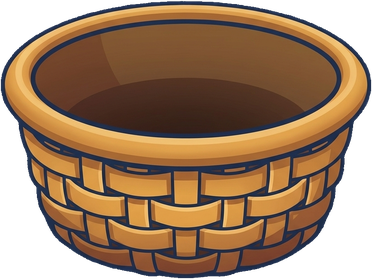
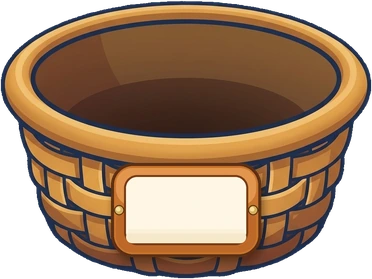
removed red glow from tokri game and added matra on the tokri

Changed region(s): [[0.2957, 0.5735, 0.7392, 0.9462]]

diff --git a/3_BUILD/HI02H11_L02_S04.html b/3_BUILD/HI02H11_L02_S04.html
@@ -5336,6 +5336,35 @@ body.mt-page{ background:#7FC2FE; }
     z-index: 205;
   }
 
+/* ==========================================================================================
+   [S04 2026-10-22] «मात्रा टोकरी» - two asks from the developer, this game only.
+   ========================================================================================== */
+/* 1. THE ROUND'S MATRA ON THE BASKET'S PLAQUE. [2026-10-22, 5th ask] the developer's reference picture: a
+      wooden name-plaque on the basket's front with the matra on it. The plaque is in the ART now (both
+      layers, 1_SPEC/make_tokri_plaque.py: wooden frame, cream panel, two brass rivets, centred at 75.3 % of
+      the basket's height); the game writes only the matra on it, in the lesson's orange, so it changes with
+      the round («◌ो», then «◌ौ»). It lives in the front layer, so it moves and wiggles with the basket.
+      --mt-ink-dy centres the INK on the panel, not the line box: the hook of ो / ौ rises above the letters. */
+.mt-game .basket-front .bf-art { position: relative; }
+.mt-game .basket-matra {
+  --mt-ink-dy: 4px;          /* measured: ink centred on the cream panel (both matras) */
+  position: absolute; left: 50%; top: 75.3%;
+  transform: translate(-50%, -50%);
+  font-family: var(--pal-font-hi); font-weight: 800; font-size: 34px; line-height: 1;
+  color: #E8590C; white-space: nowrap; pointer-events: none;
+}
+.mt-game .basket-matra > span { display: block; transform: translateY(var(--mt-ink-dy)); }
+.mt-game .basket-matra:empty { display: none; }
+/* 2. NO RED ON A WRONG CATCH: "just keep the wiggle and the sfx". The basket keeps its idle white
+      outline and only wiggles (olNo); the word's cloud keeps its own colour and only shakes (wgNo);
+      the wrong sound is untouched. The green of a right catch is unchanged. */
+.mt-game #basket-art.is-wrong { --ol-c: var(--ol-idle, #FFFFFF); }
+.mt-game .drop-tile.wg-wrong .dt-cloud { filter: hue-rotate(var(--cloud-hue, 0deg)) saturate(1.2); }
+/* 3. [2026-10-22, 4th ask] "make the tokri a little bigger so that the matra box would be in the tokri": the
+      basket (both layers) is 25 % bigger, 258 x 194, same bottom; the catch line moves with the rim (10 px
+      below CATCH_Y 489, as before) - see BASKET_W / CATCH_Y in tokri_module.js. */
+.mt-game .basket, .mt-game .basket-front { width: 258px; height: 194px; }
+.mt-game .catch-line { bottom: 155px; }
 
 
 /* [S04] MTG2A04_L02_S01's confetti layer (style.css [13]): it covers the whole window and its pieces
@@ -20377,7 +20406,9 @@ SlideModules.MATRA_TOKRI = {
             '<div class="ol ol-alpha" id="basket-art"><img src="assets/UI/mt_basket.webp" alt="" aria-hidden="true"></div>' +
           '</span></div>' +
           '<div class="basket-front" id="basket-front" aria-hidden="true"><span class="basket-lift" id="basket-front-lift">' +
-            '<div class="bf-art" id="basket-front-art"><img src="assets/UI/mt_basket_front.webp" alt=""></div>' +
+            '<div class="bf-art" id="basket-front-art"><img src="assets/UI/mt_basket_front.webp" alt="">' +
+              /* [S04 2026-10-22] the round's matra on the basket - see the round start below */
+              '<span class="basket-matra" id="basket-matra" aria-hidden="true"></span></div>' +
           '</span></div>' +
           '<div id="mtNudgeHand">' +
             '<span class="nh-tapfx"><i class="fx-ro"></i><i class="fx-ri"></i><i class="fx-sp"></i></span>' +
@@ -20486,15 +20517,20 @@ SlideModules.MATRA_TOKRI = {
       var GRAVITY        = 8;       // gentle acceleration
       var TARGET_RATIO   = 0.55;    // probability a spawn is a target-matra word
 
-      var BASKET_W          = 206;
+      /* [S04 2026-10-22] the developer: "make the tokri a little bigger so that the matra box is IN the tokri".
+         The basket is 25 % bigger - 206 x 155 -> 258 x 194, the art's own 1.333 aspect, still standing on the
+         grass at the same bottom (628) - and every number derived from its size moves with it: the catch
+         width (half the rim, which is the art's full width), CATCH_Y (top 434 + 28.5 % of 194 = 489), the
+         catch depth, and the nudge hand's dx (the right flank is 13 px further out). */
+      var BASKET_W          = 258;
       /* Both measured off the painted basket by assets/_finish_art.py, not guessed:
          its widest opaque row spans 99.6% of the art's width (the old inline SVG's
          rim was rx 90 of a 200-wide viewBox, i.e. 90%) and sits 19.1% down the frame
          (the SVG's was 24.7%). A wider, higher rim than the drawing it replaced — so
          both numbers move, or the catch box drifts off what the child can see. */
-      var BASKET_CATCH_HALF = 103;  // the rim IS the art's full width, so BASKET_W / 2
-      var CATCH_Y           = 517;  // play-area px: basket top 473 + 28.5% of 155
-      var CATCH_DEPTH       = 52;   // how far past the rim a word still counts as caught
+      var BASKET_CATCH_HALF = 129;  // the rim IS the art's full width, so BASKET_W / 2
+      var CATCH_Y           = 489;  // play-area px: basket top 434 + 28.5% of 194 ([S04] was 473 + 28.5% of 155)
+      var CATCH_DEPTH       = 65;   // how far past the rim a word still counts as caught
       var PER_ROUND         = 5;
 
       /* vo-good-1/2/3 are no longer played: the between-rounds praise is now the
@@ -20524,7 +20560,7 @@ SlideModules.MATRA_TOKRI = {
          to 659 against the play area's 654 cut and shaved the wrist - measured, 6px clipped.
          The box bottom is the binding constraint here, not the tip, so the box keeps its
          tuned position and the finger simply points 5px higher up the same flank. */
-      var NUDGE_OPTS = { hand: 'mtNudgeHand', host: '.mt-game .play-area', dx: 26.8, dy: -82 };
+      var NUDGE_OPTS = { hand: 'mtNudgeHand', host: '.mt-game .play-area', dx: 39.8, dy: -82 };
 
       // ---- State ----
       var playArea = null, basketEl = null, basketLift = null, basketArt = null;
@@ -20918,6 +20954,12 @@ SlideModules.MATRA_TOKRI = {
         clearDrops();
 
         var R = ROUNDS[i];
+        /* [S04 2026-10-22] the developer: "put the relevant matra's symbol on the tokri - when the child is
+           looking for ओ की मात्रा words, the basket carries the ओ matra". The label sits on the basket's front
+           (so it rides and wiggles with it) and changes with the round: ◌ो, then ◌ौ - drawn on its dotted
+           circle, as page 1 and the G5 cards show the mark. */
+        var bm = document.getElementById('basket-matra');
+        if (bm) bm.innerHTML = R.matra ? "<span>" + R.matra + "</span>" : "";
         /* [r25 · SME] The round banner is gone. It flashed the bare matra in a white disc,
            and a bare matra is an orphan combining mark, so the font drew it as ◌ा - a
            dotted placeholder the child was being asked to read. The VO still names the

diff --git a/4_ENGINE/lesson_template.html b/4_ENGINE/lesson_template.html
@@ -5336,6 +5336,35 @@ body.mt-page{ background:#7FC2FE; }
     z-index: 205;
   }
 
+/* ==========================================================================================
+   [S04 2026-10-22] «मात्रा टोकरी» - two asks from the developer, this game only.
+   ========================================================================================== */
+/* 1. THE ROUND'S MATRA ON THE BASKET'S PLAQUE. [2026-10-22, 5th ask] the developer's reference picture: a
+      wooden name-plaque on the basket's front with the matra on it. The plaque is in the ART now (both
+      layers, 1_SPEC/make_tokri_plaque.py: wooden frame, cream panel, two brass rivets, centred at 75.3 % of
+      the basket's height); the game writes only the matra on it, in the lesson's orange, so it changes with
+      the round («◌ो», then «◌ौ»). It lives in the front layer, so it moves and wiggles with the basket.
+      --mt-ink-dy centres the INK on the panel, not the line box: the hook of ो / ौ rises above the letters. */
+.mt-game .basket-front .bf-art { position: relative; }
+.mt-game .basket-matra {
+  --mt-ink-dy: 4px;          /* measured: ink centred on the cream panel (both matras) */
+  position: absolute; left: 50%; top: 75.3%;
+  transform: translate(-50%, -50%);
+  font-family: var(--pal-font-hi); font-weight: 800; font-size: 34px; line-height: 1;
+  color: #E8590C; white-space: nowrap; pointer-events: none;
+}
+.mt-game .basket-matra > span { display: block; transform: translateY(var(--mt-ink-dy)); }
+.mt-game .basket-matra:empty { display: none; }
+/* 2. NO RED ON A WRONG CATCH: "just keep the wiggle and the sfx". The basket keeps its idle white
+      outline and only wiggles (olNo); the word's cloud keeps its own colour and only shakes (wgNo);
+      the wrong sound is untouched. The green of a right catch is unchanged. */
+.mt-game #basket-art.is-wrong { --ol-c: var(--ol-idle, #FFFFFF); }
+.mt-game .drop-tile.wg-wrong .dt-cloud { filter: hue-rotate(var(--cloud-hue, 0deg)) saturate(1.2); }
+/* 3. [2026-10-22, 4th ask] "make the tokri a little bigger so that the matra box would be in the tokri": the
+      basket (both layers) is 25 % bigger, 258 x 194, same bottom; the catch line moves with the rim (10 px
+      below CATCH_Y 489, as before) - see BASKET_W / CATCH_Y in tokri_module.js. */
+.mt-game .basket, .mt-game .basket-front { width: 258px; height: 194px; }
+.mt-game .catch-line { bottom: 155px; }
 
 
 /* [S04] MTG2A04_L02_S01's confetti layer (style.css [13]): it covers the whole window and its pieces
@@ -18896,7 +18925,9 @@ SlideModules.MATRA_TOKRI = {
             '<div class="ol ol-alpha" id="basket-art"><img src="assets/UI/mt_basket.webp" alt="" aria-hidden="true"></div>' +
           '</span></div>' +
           '<div class="basket-front" id="basket-front" aria-hidden="true"><span class="basket-lift" id="basket-front-lift">' +
-            '<div class="bf-art" id="basket-front-art"><img src="assets/UI/mt_basket_front.webp" alt=""></div>' +
+            '<div class="bf-art" id="basket-front-art"><img src="assets/UI/mt_basket_front.webp" alt="">' +
+              /* [S04 2026-10-22] the round's matra on the basket - see the round start below */
+              '<span class="basket-matra" id="basket-matra" aria-hidden="true"></span></div>' +
           '</span></div>' +
           '<div id="mtNudgeHand">' +
             '<span class="nh-tapfx"><i class="fx-ro"></i><i class="fx-ri"></i><i class="fx-sp"></i></span>' +
@@ -19005,15 +19036,20 @@ SlideModules.MATRA_TOKRI = {
       var GRAVITY        = 8;       // gentle acceleration
       var TARGET_RATIO   = 0.55;    // probability a spawn is a target-matra word
 
-      var BASKET_W          = 206;
+      /* [S04 2026-10-22] the developer: "make the tokri a little bigger so that the matra box is IN the tokri".
+         The basket is 25 % bigger - 206 x 155 -> 258 x 194, the art's own 1.333 aspect, still standing on the
+         grass at the same bottom (628) - and every number derived from its size moves with it: the catch
+         width (half the rim, which is the art's full width), CATCH_Y (top 434 + 28.5 % of 194 = 489), the
+         catch depth, and the nudge hand's dx (the right flank is 13 px further out). */
+      var BASKET_W          = 258;
       /* Both measured off the painted basket by assets/_finish_art.py, not guessed:
          its widest opaque row spans 99.6% of the art's width (the old inline SVG's
          rim was rx 90 of a 200-wide viewBox, i.e. 90%) and sits 19.1% down the frame
          (the SVG's was 24.7%). A wider, higher rim than the drawing it replaced — so
          both numbers move, or the catch box drifts off what the child can see. */
-      var BASKET_CATCH_HALF = 103;  // the rim IS the art's full width, so BASKET_W / 2
-      var CATCH_Y           = 517;  // play-area px: basket top 473 + 28.5% of 155
-      var CATCH_DEPTH       = 52;   // how far past the rim a word still counts as caught
+      var BASKET_CATCH_HALF = 129;  // the rim IS the art's full width, so BASKET_W / 2
+      var CATCH_Y           = 489;  // play-area px: basket top 434 + 28.5% of 194 ([S04] was 473 + 28.5% of 155)
+      var CATCH_DEPTH       = 65;   // how far past the rim a word still counts as caught
       var PER_ROUND         = 5;
 
       /* vo-good-1/2/3 are no longer played: the between-rounds praise is now the
@@ -19043,7 +19079,7 @@ SlideModules.MATRA_TOKRI = {
          to 659 against the play area's 654 cut and shaved the wrist - measured, 6px clipped.
          The box bottom is the binding constraint here, not the tip, so the box keeps its
          tuned position and the finger simply points 5px higher up the same flank. */
-      var NUDGE_OPTS = { hand: 'mtNudgeHand', host: '.mt-game .play-area', dx: 26.8, dy: -82 };
+      var NUDGE_OPTS = { hand: 'mtNudgeHand', host: '.mt-game .play-area', dx: 39.8, dy: -82 };
 
       // ---- State ----
       var playArea = null, basketEl = null, basketLift = null, basketArt = null;
@@ -19437,6 +19473,12 @@ SlideModules.MATRA_TOKRI = {
         clearDrops();
 
         var R = ROUNDS[i];
+        /* [S04 2026-10-22] the developer: "put the relevant matra's symbol on the tokri - when the child is
+           looking for ओ की मात्रा words, the basket carries the ओ matra". The label sits on the basket's front
+           (so it rides and wiggles with it) and changes with the round: ◌ो, then ◌ौ - drawn on its dotted
+           circle, as page 1 and the G5 cards show the mark. */
+        var bm = document.getElementById('basket-matra');
+        if (bm) bm.innerHTML = R.matra ? "<span>" + R.matra + "</span>" : "";
         /* [r25 · SME] The round banner is gone. It flashed the bare matra in a white disc,
            and a bare matra is an orphan combining mark, so the font drew it as ◌ा - a
            dotted placeholder the child was being asked to read. The VO still names the

diff --git a/4_ENGINE/tokri_module.js b/4_ENGINE/tokri_module.js
@@ -446,7 +446,9 @@ SlideModules.MATRA_TOKRI = {
             '<div class="ol ol-alpha" id="basket-art"><img src="assets/UI/mt_basket.webp" alt="" aria-hidden="true"></div>' +
           '</span></div>' +
           '<div class="basket-front" id="basket-front" aria-hidden="true"><span class="basket-lift" id="basket-front-lift">' +
-            '<div class="bf-art" id="basket-front-art"><img src="assets/UI/mt_basket_front.webp" alt=""></div>' +
+            '<div class="bf-art" id="basket-front-art"><img src="assets/UI/mt_basket_front.webp" alt="">' +
+              /* [S04 2026-10-22] the round's matra on the basket - see the round start below */
+              '<span class="basket-matra" id="basket-matra" aria-hidden="true"></span></div>' +
           '</span></div>' +
           '<div id="mtNudgeHand">' +
             '<span class="nh-tapfx"><i class="fx-ro"></i><i class="fx-ri"></i><i class="fx-sp"></i></span>' +
@@ -555,15 +557,20 @@ SlideModules.MATRA_TOKRI = {
       var GRAVITY        = 8;       // gentle acceleration
       var TARGET_RATIO   = 0.55;    // probability a spawn is a target-matra word
 
-      var BASKET_W          = 206;
+      /* [S04 2026-10-22] the developer: "make the tokri a little bigger so that the matra box is IN the tokri".
+         The basket is 25 % bigger - 206 x 155 -> 258 x 194, the art's own 1.333 aspect, still standing on the
+         grass at the same bottom (628) - and every number derived from its size moves with it: the catch
+         width (half the rim, which is the art's full width), CATCH_Y (top 434 + 28.5 % of 194 = 489), the
+         catch depth, and the nudge hand's dx (the right flank is 13 px further out). */
+      var BASKET_W          = 258;
       /* Both measured off the painted basket by assets/_finish_art.py, not guessed:
          its widest opaque row spans 99.6% of the art's width (the old inline SVG's
          rim was rx 90 of a 200-wide viewBox, i.e. 90%) and sits 19.1% down the frame
          (the SVG's was 24.7%). A wider, higher rim than the drawing it replaced — so
          both numbers move, or the catch box drifts off what the child can see. */
-      var BASKET_CATCH_HALF = 103;  // the rim IS the art's full width, so BASKET_W / 2
-      var CATCH_Y           = 517;  // play-area px: basket top 473 + 28.5% of 155
-      var CATCH_DEPTH       = 52;   // how far past the rim a word still counts as caught
+      var BASKET_CATCH_HALF = 129;  // the rim IS the art's full width, so BASKET_W / 2
+      var CATCH_Y           = 489;  // play-area px: basket top 434 + 28.5% of 194 ([S04] was 473 + 28.5% of 155)
+      var CATCH_DEPTH       = 65;   // how far past the rim a word still counts as caught
       var PER_ROUND         = 5;
 
       /* vo-good-1/2/3 are no longer played: the between-rounds praise is now the
@@ -593,7 +600,7 @@ SlideModules.MATRA_TOKRI = {
          to 659 against the play area's 654 cut and shaved the wrist - measured, 6px clipped.
          The box bottom is the binding constraint here, not the tip, so the box keeps its
          tuned position and the finger simply points 5px higher up the same flank. */
-      var NUDGE_OPTS = { hand: 'mtNudgeHand', host: '.mt-game .play-area', dx: 26.8, dy: -82 };
+      var NUDGE_OPTS = { hand: 'mtNudgeHand', host: '.mt-game .play-area', dx: 39.8, dy: -82 };
 
       // ---- State ----
       var playArea = null, basketEl = null, basketLift = null, basketArt = null;
@@ -987,6 +994,12 @@ SlideModules.MATRA_TOKRI = {
         clearDrops();
 
         var R = ROUNDS[i];
+        /* [S04 2026-10-22] the developer: "put the relevant matra's symbol on the tokri - when the child is
+           looking for ओ की मात्रा words, the basket carries the ओ matra". The label sits on the basket's front
+           (so it rides and wiggles with it) and changes with the round: ◌ो, then ◌ौ - drawn on its dotted
+           circle, as page 1 and the G5 cards show the mark. */
+        var bm = document.getElementById('basket-matra');
+        if (bm) bm.innerHTML = R.matra ? "<span>" + R.matra + "</span>" : "";
         /* [r25 · SME] The round banner is gone. It flashed the bare matra in a white disc,
            and a bare matra is an orphan combining mark, so the font drew it as ◌ा - a
            dotted placeholder the child was being asked to read. The VO still names the

diff --git a/4_ENGINE/tokri_styles.css b/4_ENGINE/tokri_styles.css
@@ -1031,3 +1031,32 @@ body.mt-page{ background:#7FC2FE; }
     z-index: 205;
   }
 
+/* ==========================================================================================
+   [S04 2026-10-22] «मात्रा टोकरी» - two asks from the developer, this game only.
+   ========================================================================================== */
+/* 1. THE ROUND'S MATRA ON THE BASKET'S PLAQUE. [2026-10-22, 5th ask] the developer's reference picture: a
+      wooden name-plaque on the basket's front with the matra on it. The plaque is in the ART now (both
+      layers, 1_SPEC/make_tokri_plaque.py: wooden frame, cream panel, two brass rivets, centred at 75.3 % of
+      the basket's height); the game writes only the matra on it, in the lesson's orange, so it changes with
+      the round («◌ो», then «◌ौ»). It lives in the front layer, so it moves and wiggles with the basket.
+      --mt-ink-dy centres the INK on the panel, not the line box: the hook of ो / ौ rises above the letters. */
+.mt-game .basket-front .bf-art { position: relative; }
+.mt-game .basket-matra {
+  --mt-ink-dy: 4px;          /* measured: ink centred on the cream panel (both matras) */
+  position: absolute; left: 50%; top: 75.3%;
+  transform: translate(-50%, -50%);
+  font-family: var(--pal-font-hi); font-weight: 800; font-size: 34px; line-height: 1;
+  color: #E8590C; white-space: nowrap; pointer-events: none;
+}
+.mt-game .basket-matra > span { display: block; transform: translateY(var(--mt-ink-dy)); }
+.mt-game .basket-matra:empty { display: none; }
+/* 2. NO RED ON A WRONG CATCH: "just keep the wiggle and the sfx". The basket keeps its idle white
+      outline and only wiggles (olNo); the word's cloud keeps its own colour and only shakes (wgNo);
+      the wrong sound is untouched. The green of a right catch is unchanged. */
+.mt-game #basket-art.is-wrong { --ol-c: var(--ol-idle, #FFFFFF); }
+.mt-game .drop-tile.wg-wrong .dt-cloud { filter: hue-rotate(var(--cloud-hue, 0deg)) saturate(1.2); }
+/* 3. [2026-10-22, 4th ask] "make the tokri a little bigger so that the matra box would be in the tokri": the
+      basket (both layers) is 25 % bigger, 258 x 194, same bottom; the catch line moves with the rim (10 px
+      below CATCH_Y 489, as before) - see BASKET_W / CATCH_Y in tokri_module.js. */
+.mt-game .basket, .mt-game .basket-front { width: 258px; height: 194px; }
+.mt-game .catch-line { bottom: 155px; }

diff --git a/1_SPEC/make_tokri_plaque.py b/1_SPEC/make_tokri_plaque.py
@@ -1,0 +1,64 @@
+# -*- coding: utf-8 -*-
+"""Bake a name-plaque onto the «मात्रा टोकरी» basket art (both layers), as in the developer's reference
+(2026-10-22): a wooden frame, a cream panel and two brass rivets on the basket's woven front. The matra itself
+is NOT in the art - the game draws it on the plaque (.basket-matra), so it can change with the round.
+
+Source: 1_SPEC/art_src/tokri_basket_v1/mt_basket.webp, mt_basket_front.webp (the art before the plaque)
+Output: 3_BUILD/assets/UI/mt_basket.webp, mt_basket_front.webp (same size, 372 x 279; the plaque is drawn at
+        the same place on both, so the two layers stay in register)
+
+Run:  PYTHONUTF8=1 python 1_SPEC/make_tokri_plaque.py
+"""
+import os
+from PIL import Image, ImageDraw, ImageFilter
+
+HERE = os.path.dirname(os.path.dirname(os.path.abspath(__file__)))
+SRC = os.path.join(HERE, "1_SPEC", "art_src", "tokri_basket_v1")
+OUT = os.path.join(HERE, "3_BUILD", "assets", "UI")
+SS = 4                                   # supersampling
+CX, CY, W, H = 186, 210, 150, 94         # plaque centre and size, art px (the art is 372 x 279)
+
+
+def plaque(size):
+    w, h = W * SS, H * SS
+    lay = Image.new("RGBA", (size[0] * SS, size[1] * SS), (0, 0, 0, 0))
+    x0, y0 = CX * SS - w // 2, CY * SS - h // 2
+    # soft contact shadow under the plaque
+    sh = Image.new("RGBA", lay.size, (0, 0, 0, 0))
+    ImageDraw.Draw(sh).rounded_rectangle((x0 + 2 * SS, y0 + 5 * SS, x0 + w + 2 * SS, y0 + h + 5 * SS),
+                                         radius=22 * SS, fill=(40, 18, 4, 120))
+    lay = Image.alpha_composite(lay, sh.filter(ImageFilter.GaussianBlur(4 * SS)))
+    d = ImageDraw.Draw(lay)
+    # the wooden frame: dark outline, warm wood, a lighter top band
+    d.rounded_rectangle((x0, y0, x0 + w, y0 + h), radius=22 * SS, fill=(92, 46, 18, 255))
+    d.rounded_rectangle((x0 + 3 * SS, y0 + 3 * SS, x0 + w - 3 * SS, y0 + h - 3 * SS), radius=19 * SS,
+                        fill=(201, 116, 46, 255))
+    d.rounded_rectangle((x0 + 5 * SS, y0 + 5 * SS, x0 + w - 5 * SS, y0 + h * 0.45), radius=16 * SS,
+                        fill=(226, 150, 78, 255))
+    d.rounded_rectangle((x0 + 5 * SS, y0 + h * 0.45, x0 + w - 5 * SS, y0 + h - 5 * SS), radius=16 * SS,
+                        fill=(190, 104, 40, 255))
+    # the cream panel, with a thin dark inner edge
+    ix0, iy0, ix1, iy1 = x0 + 13 * SS, y0 + 12 * SS, x0 + w - 13 * SS, y0 + h - 12 * SS
+    d.rounded_rectangle((ix0, iy0, ix1, iy1), radius=13 * SS, fill=(120, 60, 22, 255))
+    d.rounded_rectangle((ix0 + 2 * SS, iy0 + 2 * SS, ix1 - 2 * SS, iy1 - 2 * SS), radius=11 * SS,
+                        fill=(255, 247, 228, 255))
+    d.rounded_rectangle((ix0 + 2 * SS, iy1 - 14 * SS, ix1 - 2 * SS, iy1 - 2 * SS), radius=11 * SS,
+                        fill=(246, 232, 202, 255))
+    d.rectangle((ix0 + 4 * SS, iy1 - 16 * SS, ix1 - 4 * SS, iy1 - 12 * SS), fill=(250, 240, 216, 255))
+    # two brass rivets on the frame, left and right
+    for rx in (x0 + 8 * SS, x0 + w - 8 * SS):
+        r = 4 * SS
+        d.ellipse((rx - r - SS, CY * SS - r - SS, rx + r + SS, CY * SS + r + SS), fill=(92, 52, 20, 255))
+        d.ellipse((rx - r, CY * SS - r, rx + r, CY * SS + r), fill=(214, 176, 96, 255))
+        d.ellipse((rx - r // 2 - SS, CY * SS - r // 2 - SS, rx + r // 3, CY * SS + r // 3), fill=(246, 224, 160, 255))
+    return lay.resize(size, Image.LANCZOS)
+
+
+for name in ("mt_basket.webp", "mt_basket_front.webp"):
+    art = Image.open(os.path.join(SRC, name)).convert("RGBA")
+    pl = plaque(art.size)
+    out = Image.alpha_composite(art, pl)
+    # the plaque never widens the basket's silhouette: keep the art's own alpha outside it
+    out.putalpha(Image.composite(out.getchannel("A"), art.getchannel("A"), pl.getchannel("A").point(lambda v: 255 if v > 0 else 0)))
+    out.save(os.path.join(OUT, name), "WEBP", quality=92, alpha_quality=100, method=6)
+    print("  wrote", name, out.size)

diff --git a/CHANGES.md b/CHANGES.md
@@ -486,3 +486,55 @@ watch-only pages or the runner game; the mic pages keep their own 7 s reminder).
 Measured, 40 s untouched, silence before each repeat: tap page G1 7.3-7.4 s (3 reminders - each also reads the
 options), sort page G4 7.0-7.2 s (4), sentence page 7.0-7.1 s (4), in both files; nothing after a correct
 answer; no console errors.
+
+## Round 19 (2026-10-22) — «मात्रा टोकरी»: the matra on the basket, no red on a wrong catch
+
+The developer, for the game only ("don't change anywhere else"):
+1. **The round's matra on the basket** - a white tag with the lesson's yellow border and the orange matra on
+   the basket's woven front: «◌ो» in the ओ round, «◌ौ» in the औ round (set at each round's start). It is part of
+   the basket's front layer, so it moves, bounces and wiggles with the basket. Glyph 40 px in a 62 px tag,
+   measured ~6 px clear above and below for both matras.
+2. **No red when a wrong word is caught** - the basket keeps its white outline and only wiggles; the word's
+   cloud keeps its own colour and only shakes; the wrong sound plays as before. Measured on a wrong catch:
+   basket outline rgb(255,255,255) with its olNo wiggle, cloud filter = its normal colour, word wgNo shake.
+   The green of a right catch is unchanged.
+Files: `4_ENGINE/tokri_module.js` (the tag + its text per round), `4_ENGINE/tokri_styles.css` (a block at the
+end, scoped to `.mt-game`). Played end to end: both rounds, a wrong catch, the celebration; no console errors.
+
+## Round 20 (2026-10-22) — «मात्रा टोकरी»: the matra in the centre of the basket, in a colour that shows
+
+The developer: "put the matra in the centre of the tokri, and use some other colour so that it's visible on
+the tokri". The small white tag (orange matra) is gone; the matra is drawn straight onto the basket, larger
+(52 px), in WHITE with a thick NAVY outline (#0B3D8C) and a soft shadow, which reads on the brown weave. It is
+centred on the basket's woven front - horizontally on the basket, vertically between the rim's front lip and
+the bottom (77 % of the basket's height, the ink centred, not the line box). Still «◌ो» in the ओ round and
+«◌ौ» in the औ round, still moving and wiggling with the basket. Game only; nothing else changed.
+
+## Round 21 (2026-10-22) — «मात्रा टोकरी»: the basket's matra in a box
+
+The developer: "it's still not visible on the tokri, put it inside a box so that it's clearly visible". The
+matra is now in a WHITE BOX (88 x 72 px) with a thick NAVY border (5 px, #0B3D8C), a thin white halo and a drop
+shadow, so it stands off the brown weave; the matra inside is deep orange (#E8590C), 44 px, its ink centred in
+the box (~7 px clear above and below, measured for both ◌ो and ◌ौ). Centred on the basket's front, moving and
+wiggling with it; «◌ो» in the ओ round, «◌ौ» in the औ round. Game only.
+
+## Round 22 (2026-10-22) — «मात्रा टोकरी»: a bigger basket, the matra box fully on it
+
+The developer: "make the tokri a little bigger so that the matra box would be in the tokri (part of it is on
+the top)". The basket is 25 % bigger: 206 x 155 -> 258 x 194 (its own proportions), standing on the grass at the
+same place. Everything tied to its size moved with it, so a word is caught where the bigger rim is: catch width
+103 -> 129 (half the rim), CATCH_Y 517 -> 489, catch depth 52 -> 65, the dashed catch line 10 px under the rim as
+before, and the nudge hand's dx (still on the basket's right flank). The matra box (unchanged, 88 x 72) now sits
+wholly on the woven front, below the rim: measured box 545-617 px against the weave's 546-618. Played end to end:
+all 10 right words caught, a wrong word thrown out (no red), both labels, the celebration. Game only.
+
+## Round 23 (2026-10-22) — «मात्रा टोकरी»: a basket with a name-plaque, as in the developer's reference
+
+The developer sent a picture: the basket with a wooden name-plaque on its front and the matra on it. The basket
+art (`assets/UI/mt_basket.webp` and its front layer `mt_basket_front.webp`) now carries that plaque - a wooden
+frame with a dark outline and a lighter top band, a cream panel and two brass rivets - drawn on the same spot in
+both layers so they stay in register (`1_SPEC/make_tokri_plaque.py`; the art before the plaque is kept in
+`1_SPEC/art_src/tokri_basket_v1/`). The basket's outline, rim and catch geometry are untouched (same art, same
+silhouette). The game writes only the matra on the plaque, in the lesson's orange (34 px, the ink centred on the
+cream panel for both ◌ो and ◌ौ); the white box of round 21 is gone. Played end to end: both rounds' matras on the
+plaque, a wrong catch (no red), the celebration. Game only.
